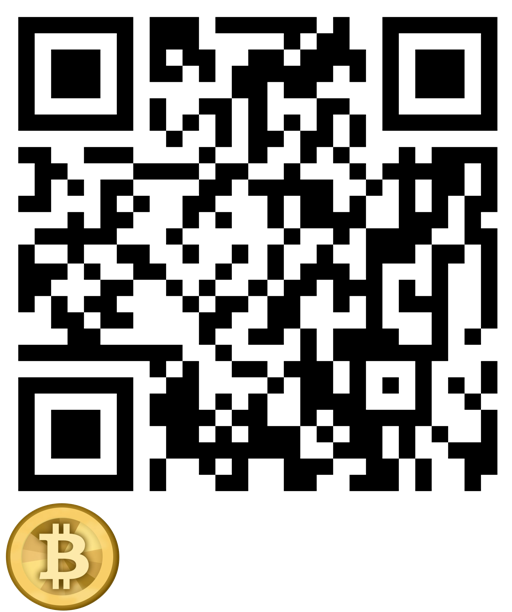
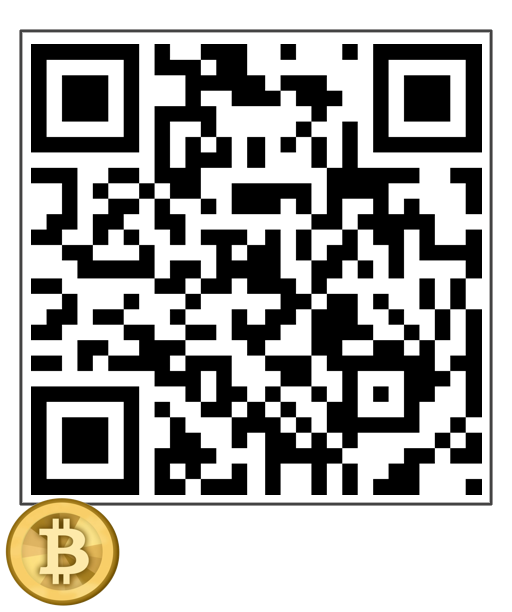
new payment enabled site

diff --git a/src/components/TechnologyAreas.js b/src/components/TechnologyAreas.js
@@ -9,17 +9,11 @@ let TechnologyAreas = () => {
     
         <div class="d-flex flex-wrap justify-content-center">
                 
-            {/* <div className="p-2 m-2 border-white">
-                <div className="mt-3"><Mail color="white" size={48}/></div>
-                <h4>Message Driven</h4>
-                <p className="text-white">Asynchronous, responsive software scales better and creates better outcomes for users.</p>                
-            </div> */}
-
 
             <div className="p-2 m-2 border-white technology-list-li">
                 <a href="https://claytantor.wordpress.com/category/cloud-applications/" target="new">
                     <div className="mt-3"><UploadCloud color="white" size={48}/></div>
-                    <h4>Cloud Applications</h4>
+                    <h4 className="section-tech">Cloud Applications</h4>
                     <p className="text-white">Creating cloud native applications means getting the value out quickly.</p>  
                 </a>        
             </div>
@@ -27,7 +21,7 @@ let TechnologyAreas = () => {
             <div className="p-2 m-2 border-white technology-list-li">
                 <a href="https://claytantor.wordpress.com/category/cloud-devops/" target="new">
                     <div className="mt-3"><CloudLightning color="white" size={48}/></div>
-                    <h4>Cloud DevOps</h4>
+                    <h4 className="section-tech">Cloud DevOps</h4>
                     <p className="text-white">Empower the people who wrote the software to help it to have a healthy life.</p> 
                 </a>                
             </div>
@@ -35,7 +29,7 @@ let TechnologyAreas = () => {
             <div className="p-2 m-2 border-white technology-list-li">
                 <a href="https://claytantor.wordpress.com/category/ai-and-big-data/" target="new">
                     <div className="mt-3"><Box color="white" size={48}/></div>
-                    <h4>Artificial Intelligence and Big Data</h4>
+                    <h4 className="section-tech">Artificial Intelligence and Big Data</h4>
                     <p className="text-white">When problems are large we break them down so many hands can make the work lighter.</p>   
                 </a>             
             </div>
@@ -43,7 +37,7 @@ let TechnologyAreas = () => {
             <div className="p-2 m-2 border-white technology-list-li">           
                 <a href="https://claytantor.wordpress.com/category/blockchain/" target="new">
                     <div className="mt-3"><Link color="white" size={48}/></div>
-                    <h4>Blockchain</h4>
+                    <h4 className="section-tech">Blockchain</h4>
                     <p className="text-white">Blockchain technology has the potential to revolutionise distributed truth by enabling faster, more transparent and cost-effective cross-border state.</p>                
                 </a>
             </div>

diff --git a/src/App.js b/src/App.js
@@ -4,7 +4,6 @@ import SocialLinks from './components/SocialLinks'
 import PayBitcoin from './components/PayBitcoin'
 import DesignProjects from './components/DesignProjects'
 import TechnologyAreas from './components/TechnologyAreas'
-import CopyClipboard from './components/CopyClipboard'
 
 import './App.css';
 
@@ -33,9 +32,9 @@ let Home = () => {
             <span className="text-white word-logo">@claytantor</span>
           </a>
 
-          <ul className="nav nav-pills mr-2">
-            <li className="nav-item"><a href="/" className="nav-link active">Home</a></li>
+          <ul className="nav nav-pills ml-2">
             <li className="nav-item"><a href="https://claytantor.wordpress.com" className="nav-link">Blog</a></li>
+            <li className="nav-item"><a href="https://claytantor.wordpress.com/services/" className="nav-link">Services</a></li>
           </ul>
         </div>
       </section>
@@ -44,8 +43,8 @@ let Home = () => {
       <header>
         <div className="header-content container d-inline-flex p-2 justify-content-end bd-highlight">
           <div className="p-2">
-            <h1>Technology, Design, Doing</h1>
-            <p>Clay Graham is a software architect, designer of virtual and real things, artist, and lifelong maker. He is self motivated, passionate and driven towards seeing possibilities become realities. Doing is essential to Clay's ethos, to him it is what differentiates those who make a difference in the world from those who dream.</p>
+            <h1 className="section-heading">Technology, Design, Doing</h1>
+            <p className="burb-header">Clay Graham is a software architect, designer of virtual and real things, artist, and lifelong maker. He is self motivated, passionate and driven towards seeing possibilities become realities. Doing is essential to Clay's ethos, to him it is what differentiates those who make a difference in the world from those who dream.</p>
           </div>
         </div>
       </header>

diff --git a/src/index.css b/src/index.css
@@ -1,13 +1,15 @@
+
+/* font-family: 'Arvo', serif;
+font-family: 'Titillium Web', sans-serif; */
 body {
   margin: 0;
-  font-family: 'Ubuntu', sans-serif;  
+  font-family: 'Titillium Web', sans-serif;
   -webkit-font-smoothing: antialiased;
   -moz-osx-font-smoothing: grayscale;
 }
 
 code {
-  font-family: source-code-pro, Menlo, Monaco, Consolas, 'Courier New',
-    monospace;
+  font-family: 'Titillium Web', sans-serif;
 }
 
 .border-white {
@@ -37,6 +39,8 @@ code {
     font-size: 3.5rem;
   }
 }
+
+
 
 
 header {
@@ -179,8 +183,73 @@ header .header-content {
 
 }
 
+.burb-header {
+  font-size: 1.5rem;
+  color: #fff;
+  margin-left: 20px;
+  font-family: 'Titillium Web', sans-serif;
+}
+
 .about-quote {
-  font-family: 'Goudy Bookletter 1911', serif;
+  font-family: 'Titillium Web', sans-serif;
   color: #fff;
   font-size: x-large;
 }
+
+.section-tech {
+  font-family: 'Arvo', sans-serif;
+  color: #fff;
+}
+
+.section-heading {
+  font-family: 'Arvo', sans-serif;
+  color: #fff;
+  font-size: 2.6rem;
+}
+
+input[type="button"] {
+  border: 0px solid #eee;
+  border: none;
+  outline: none;
+}
+
+.button-coinbase {
+  border: 0px solid #eee;
+  border-radius: 15px;
+  background-color: #3f4ef6; /* Green */
+  border: none;
+  color: white;
+  padding: 15px 32px;
+  text-align: center;
+  text-decoration: none;
+  display: inline-block;
+  font-size: 1.5rem;
+  font-weight: bold;
+  outline: none;
+}
+
+.button-coinbase:hover {
+  border: 0px solid #eee;
+  background-color: #4b8aff; /* Green */
+  color: white;
+  border: none;
+  outline: none;
+}
+
+
+.button-coinbase:active {
+  border: 0px solid #eee;
+  background-color: #4b8aff; /* Green */
+  color: white;
+  border: none;
+  outline: none;
+}
+
+.button-coinbase:focus {
+  border: 0px solid #eee;
+  background-color: #4b8aff; /* Green */
+  color: white;
+  border: none;
+  outline: none;
+}
+

diff --git a/src/components/CopyClipboard.js b/src/components/CopyClipboard.js
@@ -2,10 +2,11 @@ import React from 'react';
 import {CopyToClipboard} from 'react-copy-to-clipboard';
 import { Copy as FeatherCopyToClipboard } from 'react-feather';
 
+
 class CopyClipboard extends React.Component {
 
     state = {
-        value: '3GE8cxhRpckCu1m326jCkaeLpcstzzk25F',
+        value: '3Erm7HJ1jbaken8kmKSJQ2uAo1xj2yxQie',
         copied: false,
     };    
 
@@ -20,8 +21,7 @@ class CopyClipboard extends React.Component {
                         onCopy={() => this.setState({copied: true})}>
                         <span><FeatherCopyToClipboard color="white" size={32}/></span>
                     </CopyToClipboard>
-
-                    
+                  
                 </div>
                 <div>{this.state.copied ? <span style={{color: 'green'}}>Copied.</span> : null}</div>
             </>);

diff --git a/src/components/PayBitcoin.js b/src/components/PayBitcoin.js
@@ -1,15 +1,14 @@
 import React from 'react';
 import CopyClipboard from './CopyClipboard'
 import imgBitcoin from '../img/pay_bc_512.png';
+import imgCoinbase from '../img/pay_coinbase.png';
 
 let PayBitcoin = () => { 
     return(<>
-        <div className="d-flex flex-wrap justify-content-center mb-3">
-        <CopyClipboard/>
-      </div> 
-      <div className="d-flex flex-wrap justify-content-center mb-3">
-        <img className="bitcoin-img" src={imgBitcoin} alt="pay with bitcoin" />
-      </div> 
+    
+    <button class="button-coinbase" onClick={() => {
+      window.open('https://commerce.coinbase.com/checkout/c86a2ce6-bfff-4806-bc10-ab0a5dc10153', '_blank')}}>Pay @claytantor With Crypto</button>
+
     </>);
   };
 

diff --git a/public/index.html b/public/index.html
@@ -25,8 +25,9 @@
       Learn how to configure a non-root public URL by running `npm run build`.
     -->
 
-    <link rel="preconnect" href="https://fonts.gstatic.com">
-    <link href="https://fonts.googleapis.com/css2?family=Goudy+Bookletter+1911&family=Ubuntu&display=swap" rel="stylesheet">
+    <link rel="preconnect" href="https://fonts.googleapis.com">
+    <link rel="preconnect" href="https://fonts.gstatic.com" crossorigin>
+    <link href="https://fonts.googleapis.com/css2?family=Arvo&family=Titillium+Web:wght@300&display=swap" rel="stylesheet">
 
 
     <title>React App</title>
